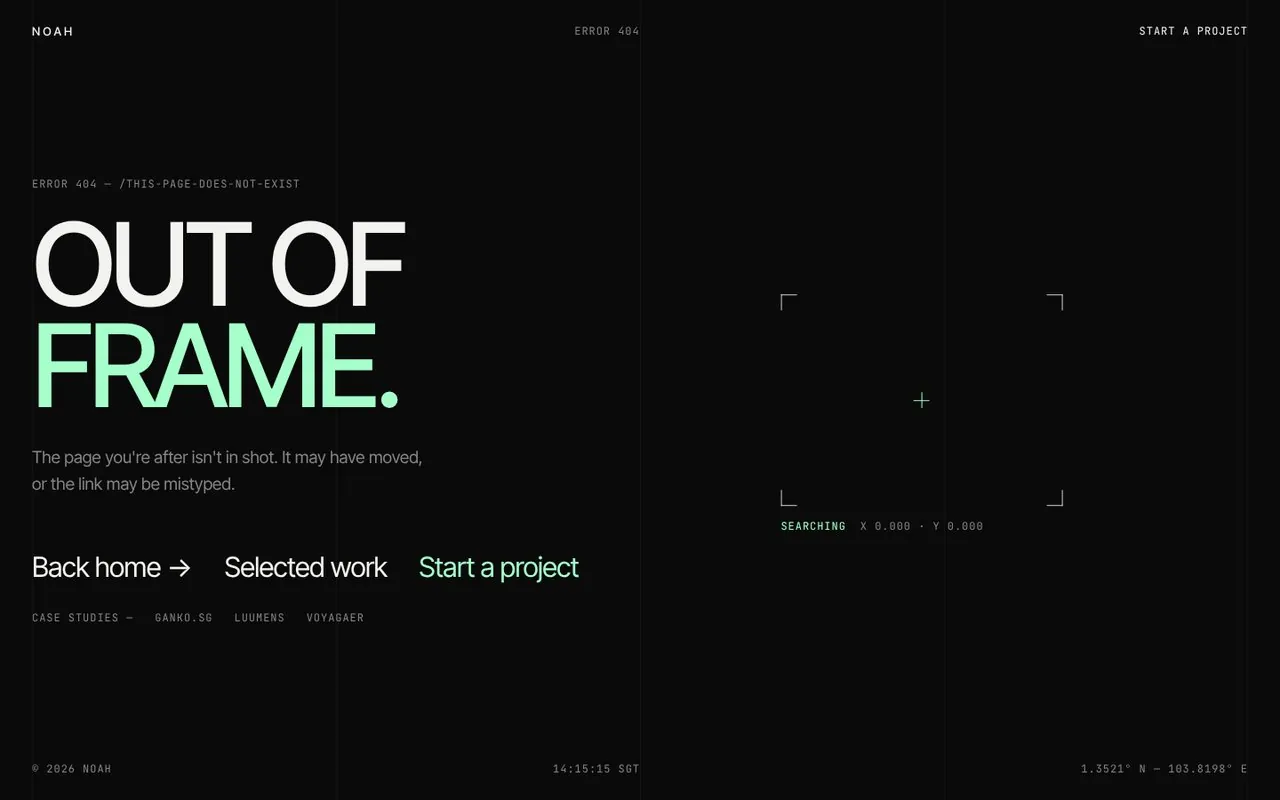
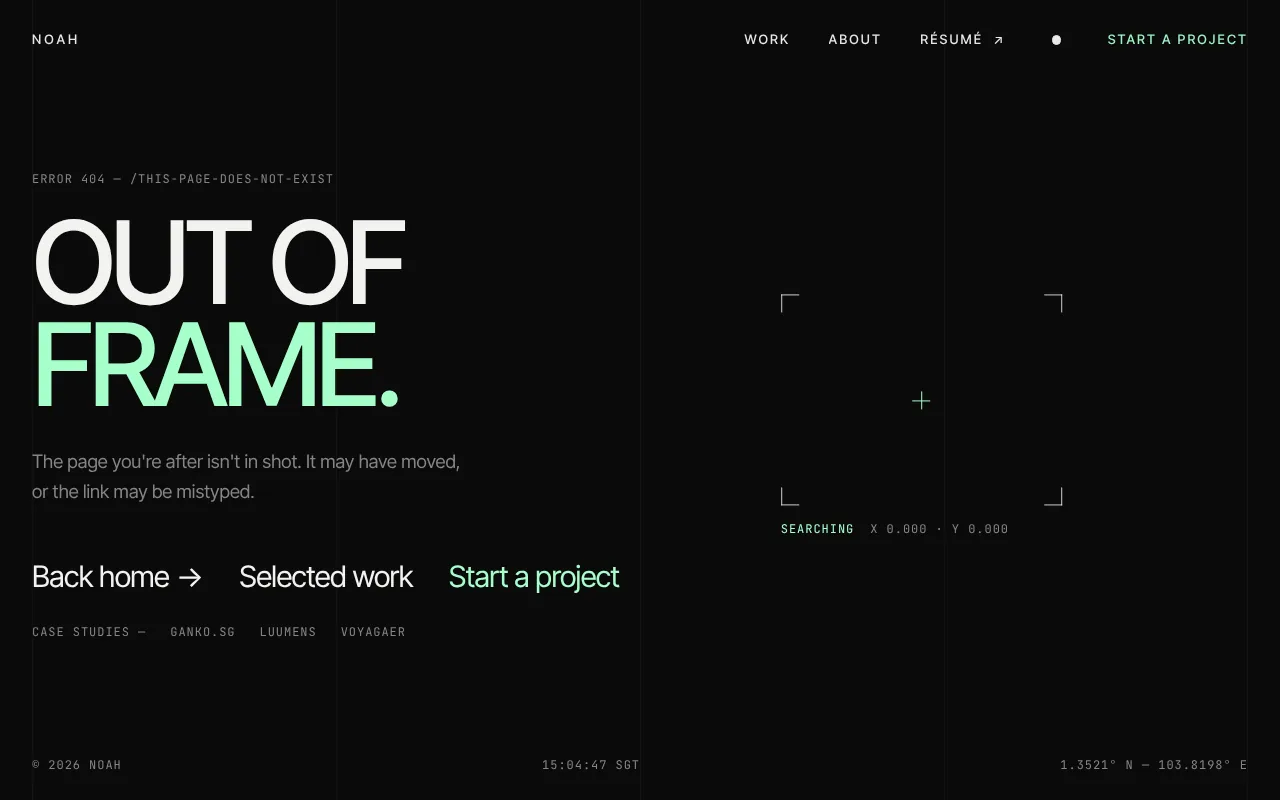
404: full site chrome — nav, theme switch, cursor, project form, weight hover
- Standard nav (Work, About, Résumé, theme dot, Start a project).
- Dot cursor and viewfinder link frames on desktop; tap frames on touch.
- Both 'Start a project' links open the project form on the page.
- Darkroom / Daylight with the viewfinder transition.
- 'Out of frame.' thickens under the pointer like the homepage headline.
- New js/notfound.js entry; absolute paths so it works at any depth.
- Colophon's 404 still (glitch effect) re-shot to match the new page.

Claude-Session: https://claude.ai/code/session_01414sVM5zfewXF4ZUwxNz3z

diff --git a/404.html b/404.html
@@ -13,10 +13,15 @@
   <link rel="preload" href="/assets/fonts/inter-tight-latin-wght-normal.woff2" as="font" type="font/woff2" crossorigin>
   <link rel="preload" href="/assets/fonts/jetbrains-mono-latin-400-normal.woff2" as="font" type="font/woff2" crossorigin>
   <link rel="stylesheet" href="/css/style.css">
+  <script>document.documentElement.classList.add('js');</script>
+  <script src="https://cdnjs.cloudflare.com/ajax/libs/gsap/3.12.5/gsap.min.js" defer></script>
+  <script src="https://cdnjs.cloudflare.com/ajax/libs/gsap/3.12.5/ScrollTrigger.min.js" defer></script>
+  <script type="module" src="/js/notfound.js"></script>
   <style>
-    .nf-page { min-height: 100vh; min-height: 100svh; display: grid; grid-template-rows: auto 1fr auto; overflow: hidden; }
+    .nf-page { min-height: 100vh; min-height: 100svh; display: grid; grid-template-rows: 1fr auto; overflow: hidden; }
+    .nf-page > main { display: grid; padding-top: var(--nav-h); }
 
-    .nf-top, .nf-foot {
+    .nf-foot {
       position: relative;
       z-index: 2;
       display: flex;
@@ -25,8 +30,6 @@
       gap: 1rem;
       padding: 1.6rem var(--gutter);
     }
-    .nf-top a { color: var(--text); }
-    .nf-top .nf-logo { font-family: var(--font-sans); font-size: 0.8125rem; font-weight: 500; letter-spacing: 0.24em; }
 
     .nf-main {
       position: relative;
@@ -111,10 +114,23 @@
 <body class="nf-page">
   <div class="grid-lines" aria-hidden="true"><span></span><span></span><span></span><span></span></div>
 
-  <header class="nf-top label">
-    <a class="nf-logo" href="/" aria-label="Noah — home">Noah</a>
-    <span class="muted">Error 404</span>
-    <a class="accent" href="/#start">Start a project</a>
+  <div class="cursor" aria-hidden="true">
+    <span class="cursor__circle"></span>
+    <span class="cursor__label"></span>
+  </div>
+
+  <header class="nav">
+    <a class="nav__logo" href="/" aria-label="Noah — home">Noah</a>
+    <span class="nav__clock" data-clock aria-hidden="true">— SGT</span>
+    <nav class="nav__right" aria-label="Primary" data-nav>
+      <ul class="nav__list" id="nav-list">
+        <li><a class="nav__link" href="/#work" data-nav-link="work">Work</a></li>
+        <li><a class="nav__link" href="/#about" data-nav-link="about">About</a></li>
+        <li><a class="nav__link nav__link--file" href="/assets/docs/Zaw_Min_Htut_Resume_2026.pdf" target="_blank" rel="noopener">Résumé <span class="arrow arrow--diag" aria-hidden="true">↗</span></a></li>
+      </ul>
+      <button class="theme-toggle theme-toggle--nav" type="button" data-theme-toggle aria-pressed="false" aria-label="Darkroom mode — switch to daylight"><span class="theme-toggle__dot" aria-hidden="true"></span><span class="theme-toggle__label">Darkroom</span></button>
+      <a class="nav__link nav__cta" href="/#contact" data-pf-open aria-haspopup="dialog" aria-controls="project-form">Start a project</a>
+    </nav>
   </header>
 
   <div class="nf-stage" aria-hidden="true">
@@ -125,15 +141,16 @@
     </div>
   </div>
 
-  <main class="nf-main" id="main">
+  <main id="main">
+   <section class="nf-main">
     <div class="nf-text">
       <p class="label muted">Error 404 — <span data-nf-path>/</span></p>
-      <h1 class="nf-title">Out of<br><em class="accent">frame.</em></h1>
+      <h1 class="nf-title" data-weight aria-label="Out of frame.">Out of<br><em class="accent">frame.</em></h1>
       <p class="nf-copy">The page you're after isn't in shot. It may have moved, or the link may be mistyped.</p>
       <nav class="nf-links" aria-label="Where to next">
         <a class="link-line" href="/">Back home <span class="arrow" aria-hidden="true">→</span></a>
         <a class="link-line" href="/#work">Selected work</a>
-        <a class="link-line accent" href="/#start">Start a project</a>
+        <a class="link-line accent" href="/#contact" data-pf-open aria-haspopup="dialog" aria-controls="project-form">Start a project</a>
       </nav>
       <p class="nf-cases label">
         <span class="muted">Case studies —</span>
@@ -142,6 +159,7 @@
         <a class="link-line" href="/work/voyagaer/">Voyagaer</a>
       </p>
     </div>
+   </section>
   </main>
 
   <footer class="nf-foot label muted">
@@ -173,5 +191,75 @@
       }, 180);
     })();
   </script>
+  <div class="pf" id="project-form" role="dialog" aria-modal="true" aria-labelledby="pf-title" hidden>
+    <span class="pf__wipe" aria-hidden="true"></span>
+    <div class="pf__panel">
+      <div class="grid-lines pf__grid" aria-hidden="true"><span></span><span></span><span></span><span></span></div>
+      <header class="pf__top label">
+        <span class="pf__item"><span class="status-dot" aria-hidden="true"></span>New project</span>
+        <button class="pf__close" type="button" data-pf-close aria-label="Close the form"><span class="pf__item">Close <span aria-hidden="true">✕</span></span></button>
+      </header>
+
+      <form class="pf__form" novalidate>
+        <h2 class="pf__title" id="pf-title"><span class="pf__mask"><span class="pf__item">Tell me about it.</span></span></h2>
+
+        <p class="pf__sentence">
+          <span class="pf__mask"><span class="pf__item">Hi Noah, I'm</span></span>
+          <label class="pf__field" data-field="name"><span class="sr-only">Your name</span><input name="name" type="text" autocomplete="name" placeholder="your name" maxlength="80" required><span class="pf__rule" aria-hidden="true"></span></label>
+          <span class="pf__mask"><span class="pf__item">from</span></span>
+          <span class="pf__nb"><label class="pf__field" data-field="company"><span class="sr-only">Company (optional)</span><input name="company" type="text" autocomplete="organization" placeholder="company (optional)" maxlength="100"><span class="pf__rule" aria-hidden="true"></span></label><span class="pf__mask"><span class="pf__item">.</span></span></span>
+          <span class="pf__mask"><span class="pf__item">I need</span></span>
+          <label class="pf__field pf__field--select" data-field="type"><span class="sr-only">What you need</span>
+            <select name="type" required>
+              <option value="a new website">a new website</option>
+              <option value="a redesign">a redesign</option>
+              <option value="something else">something else</option>
+            </select><span class="pf__rule" aria-hidden="true"></span></label>
+          <span class="pf__mask"><span class="pf__item">and my budget is</span></span>
+          <span class="pf__nb"><label class="pf__field pf__field--select" data-field="budget"><span class="sr-only">Budget</span>
+            <select name="budget">
+              <option value="not sure yet">not sure yet</option>
+              <option value="under S$3k">under S$3k</option>
+              <option value="S$3k–8k">S$3k–8k</option>
+              <option value="S$8k–15k">S$8k–15k</option>
+              <option value="S$15k+">S$15k+</option>
+            </select><span class="pf__rule" aria-hidden="true"></span></label><span class="pf__mask"><span class="pf__item">.</span></span></span>
+          <span class="pf__mask"><span class="pf__item">Reach me at</span></span>
+          <span class="pf__nb"><label class="pf__field" data-field="email"><span class="sr-only">Your email</span><input name="email" type="email" autocomplete="email" placeholder="you@email.com" maxlength="254" required><span class="pf__rule" aria-hidden="true"></span></label><span class="pf__mask"><span class="pf__item">.</span></span></span>
+        </p>
+
+        <label class="pf__message" data-field="message">
+          <span class="label muted pf__item">Anything else? (optional)</span>
+          <textarea name="message" rows="3" maxlength="2000" placeholder="A link, a deadline, an idea…"></textarea>
+          <span class="pf__rule" aria-hidden="true"></span>
+        </label>
+
+        <!-- Honeypot: hidden from people, filled by bots. -->
+        <label class="pf__hp" aria-hidden="true">Website<input name="website" type="text" tabindex="-1" autocomplete="off"></label>
+
+        <div class="pf__foot">
+          <div class="pf__captcha" data-pf-captcha></div>
+          <button class="pf__send" type="submit">
+            <span class="pf__send-fill" aria-hidden="true"></span>
+            <span class="marks" aria-hidden="true"></span>
+            <span class="pf__send-label">Send <span class="arrow" aria-hidden="true">→</span></span>
+            <span class="pf__send-progress" aria-hidden="true"></span>
+          </button>
+        </div>
+        <p class="pf__status label" role="status" aria-live="polite"></p>
+      </form>
+
+      <!-- Result: the form fades out and this rises in its place (sent or not sent). -->
+      <div class="pf__result" hidden data-state="sent" role="status" aria-live="polite">
+        <p class="label muted pf__result-item" data-pf-r="label">Message sent</p>
+        <p class="pf__result-title"><span class="pf__mask"><span class="pf__result-item" data-pf-r="t1">Thanks —</span></span><span class="pf__mask"><span class="pf__result-item pf__result-accent" data-pf-r="t2">talk soon.</span></span></p>
+        <p class="pf__result-note muted pf__result-item"><span data-pf-r="note">I usually reply within a day or two.</span></p>
+        <div class="pf__actions pf__result-item">
+          <button class="pf__action link-line label" type="button" data-pf-retry hidden>Try again</button>
+          <button class="pf__action link-line label" type="button" data-pf-close>Back to the site</button>
+        </div>
+      </div>
+    </div>
+  </div>
 </body>
 </html>

diff --git a/js/notfound.js b/js/notfound.js
@@ -1,0 +1,31 @@
+/*
+ * Entry point for the 404. The page keeps its own small inline script (the
+ * missing path, the clock in the footer, the hunting viewfinder); this adds
+ * what every other page has: the nav clock, the theme switch, the cursor,
+ * the project form, magnetic buttons, touch feedback, and the weight-on-hover
+ * headline ("Out of frame.").
+ */
+import { initCursor, initMagnetic, initClock, initHeroWeight } from './interactions.js';
+import { initTheme } from './theme.js';
+import { initContactForm } from './contact.js';
+import { initTouchFx } from './touch.js';
+import { wrapChars } from './split.js';
+
+function boot() {
+  initClock();
+  initTheme();
+  const title = document.querySelector('.nf-title[data-weight]');
+  if (title) wrapChars(title);
+
+  const { gsap, ScrollTrigger } = window;
+  if (!gsap) return;
+  if (ScrollTrigger) gsap.registerPlugin(ScrollTrigger);
+
+  initCursor();
+  initMagnetic();
+  initHeroWeight();
+  initContactForm();
+  initTouchFx({ home: false });
+}
+
+boot();
